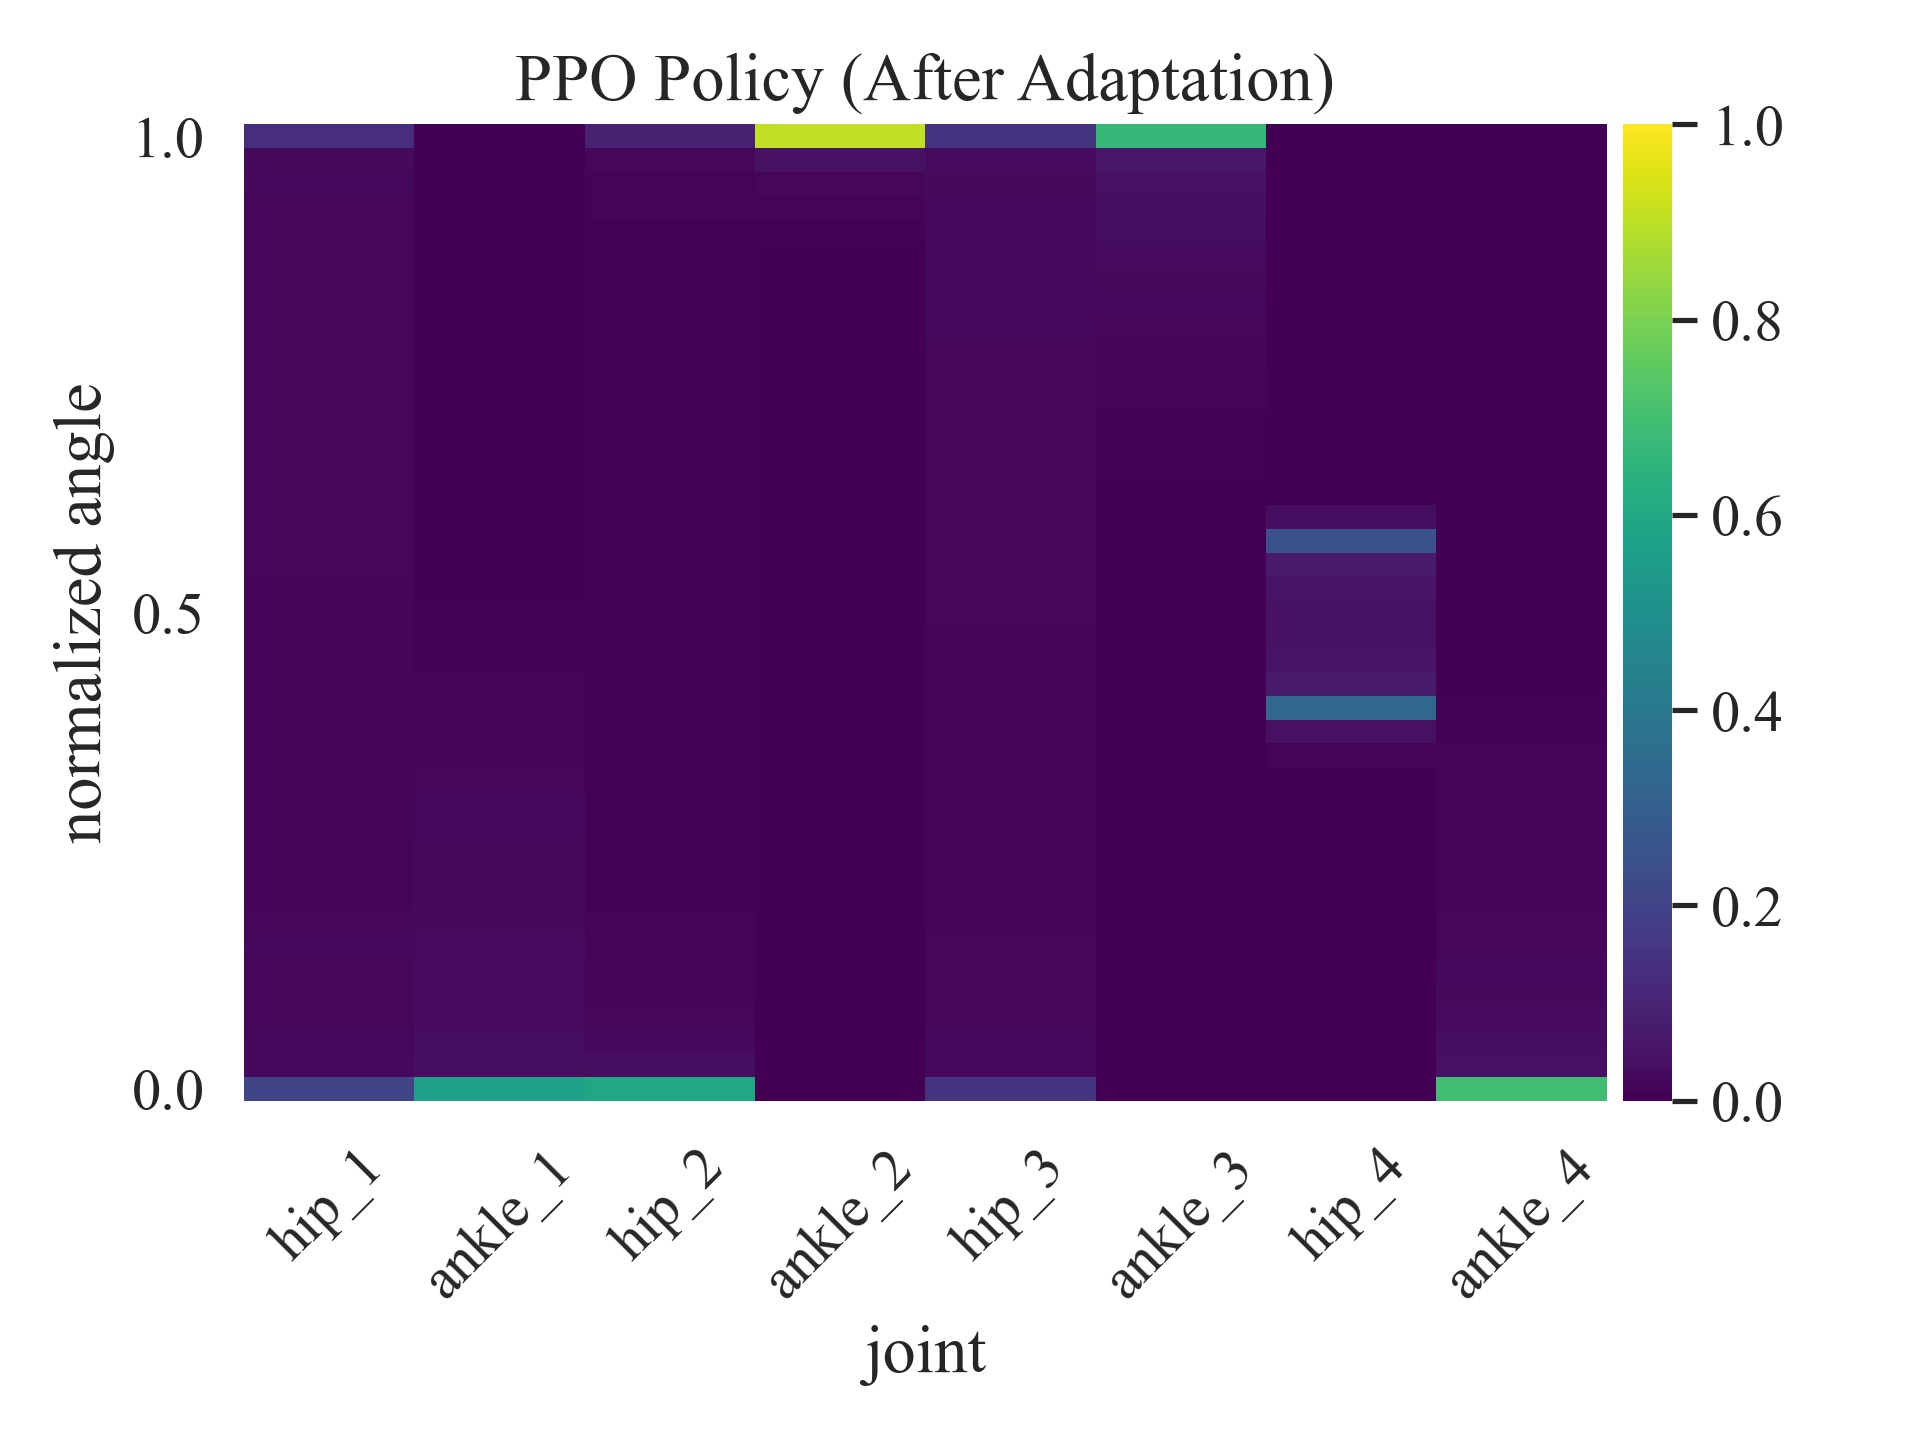
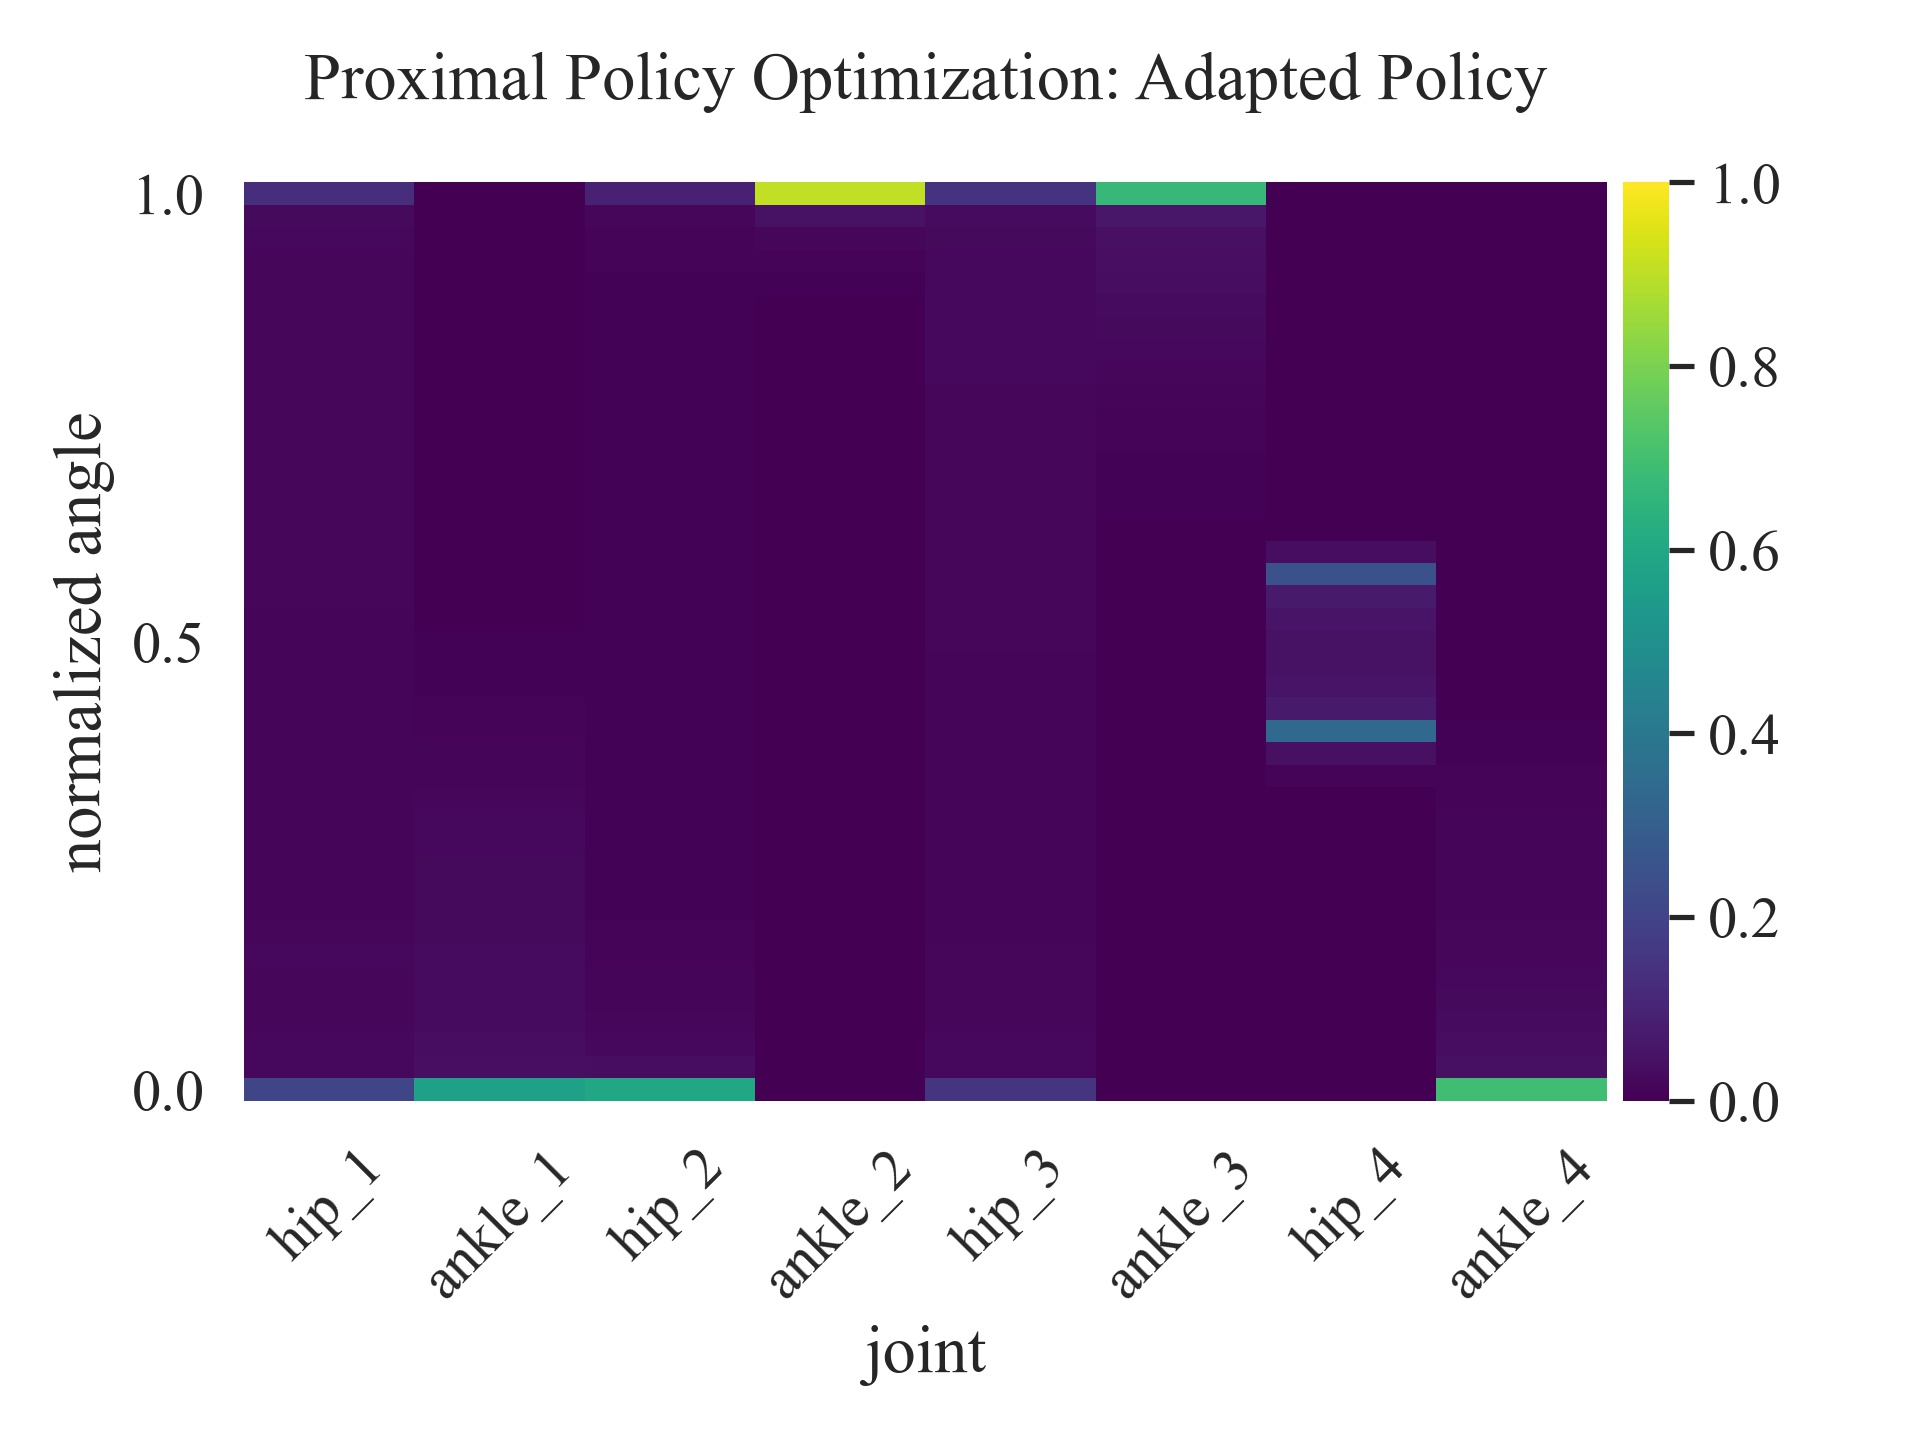
updated histogram and created new plots

diff --git a/plot/histogram/histogram.py b/plot/histogram/histogram.py
@@ -248,7 +248,7 @@ def plot_ant_heatmap(ranges):
     @param ranges: tuple of numpy arrays
         joint ranges
     """
-    global ant_histogram_data
+    global ant_histogram_data, algorithm
 
     ant_histogram_data = np.load(experiment_data_directory + "/{}_histogram_data_{}.npy".format(experiment_name, num_seeds))
 
@@ -280,12 +280,22 @@ def plot_ant_heatmap(ranges):
     y_labels = ["1.0", "", "", "", "", "", "", "", "", "", "", "", "", "", "", "", "", "", "", "", "0.5", "", "", "", "", "", "", "", "", "", "", "", "", "", "", "", "", "", "", "", "0.0"]
     heatmap = sns.heatmap(data=df[::-1], cmap=cmap, yticklabels=y_labels, vmin=0, vmax=1, cbar_kws={"pad": 0.01})
 
+    if algorithm == "PPO":
+        algorithm = "Proximal Policy Optimization"
+    else:
+        algorithm = "Soft Actor-Critic"
+
     if suffix == "":
         # heatmap.set_title("{}\n{}".format(algorithm, name))
-        heatmap.set_title(f"{algorithm} Policy (Transferred, No Adaptation)")
+        heatmap.set_title(f"{algorithm}: Transferred Policy, No Adaptation", pad=20)
     else:
         # heatmap.set_title("{} ({})\n{}".format(algorithm, suffix_eval, name))
-        heatmap.set_title(f"{algorithm} Policy (After Adaptation)")
+        heatmap.set_title(f"{algorithm}: Adapted Policy", pad=20)
+
+    if algorithm == "Proximal Policy Optimization":
+        algorithm = "PPO"
+    else:
+        algorithm = "SAC"
 
     # algorithm_ = None
     #
@@ -750,10 +760,10 @@ def plot_fetchreach_heatmap(ranges):
 
     if suffix == "":
         # heatmap.set_title("{}\n{}".format(algorithm, name))
-        heatmap.set_title(f"{algorithm} Policy (Transferred, No Adaptation)")
+        heatmap.set_title(f"{algorithm}: Transferred Policy, No Adaptation")
     else:
         # heatmap.set_title("{} ({})\n{}".format(algorithm, suffix_eval, name))
-        heatmap.set_title(f"{algorithm} Policy (After Adaptation)")
+        heatmap.set_title(f"{algorithm}: Adapted Policy")
 
     # algorithm_ = None
     #
@@ -1143,7 +1153,7 @@ if __name__ == "__main__":
 
     # PPO
 
-    ant_ppo_v0 = True
+    ant_ppo_v0 = False
 
     if ant_ppo_v0:
 
@@ -1152,7 +1162,7 @@ if __name__ == "__main__":
 
     # SAC
 
-    ant_sac_v0 = True
+    ant_sac_v0 = False
 
     if ant_sac_v0:
 
@@ -1181,7 +1191,7 @@ if __name__ == "__main__":
 
     # PPO v2
 
-    ant_ppo_v2 = False
+    ant_ppo_v2 = True
 
     if ant_ppo_v2:
 
@@ -1253,7 +1263,7 @@ if __name__ == "__main__":
 
     # SAC v2
 
-    ant_sac_v2 = False
+    ant_sac_v2 = True
 
     if ant_sac_v2:
 
